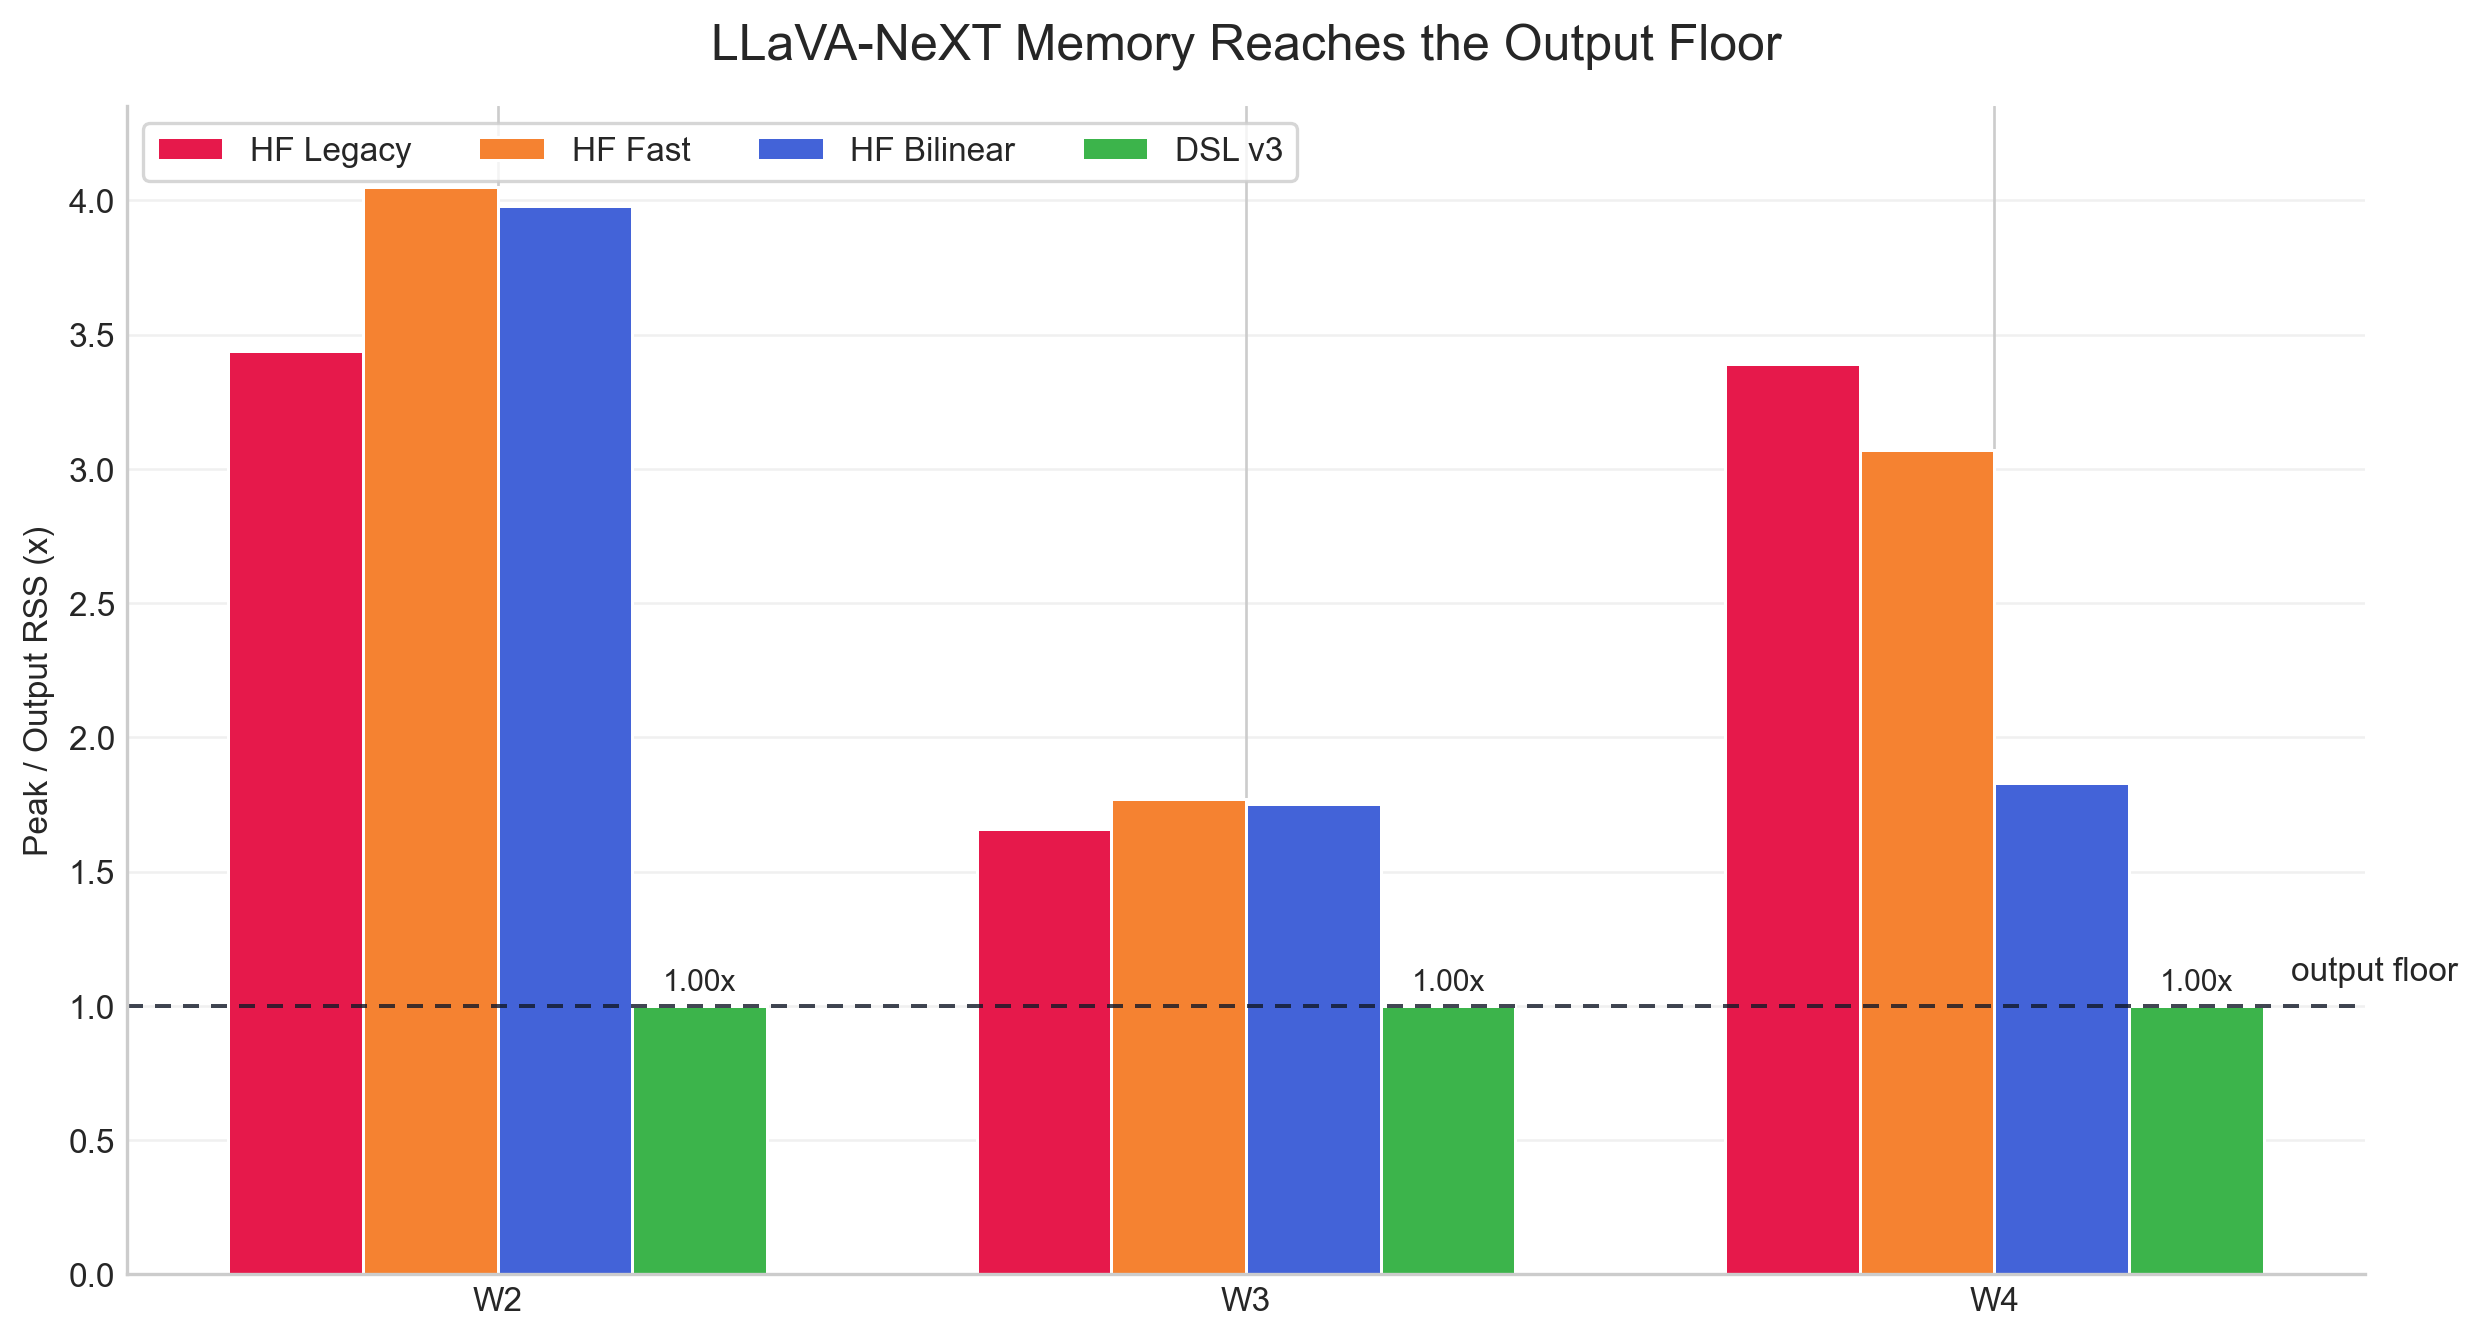
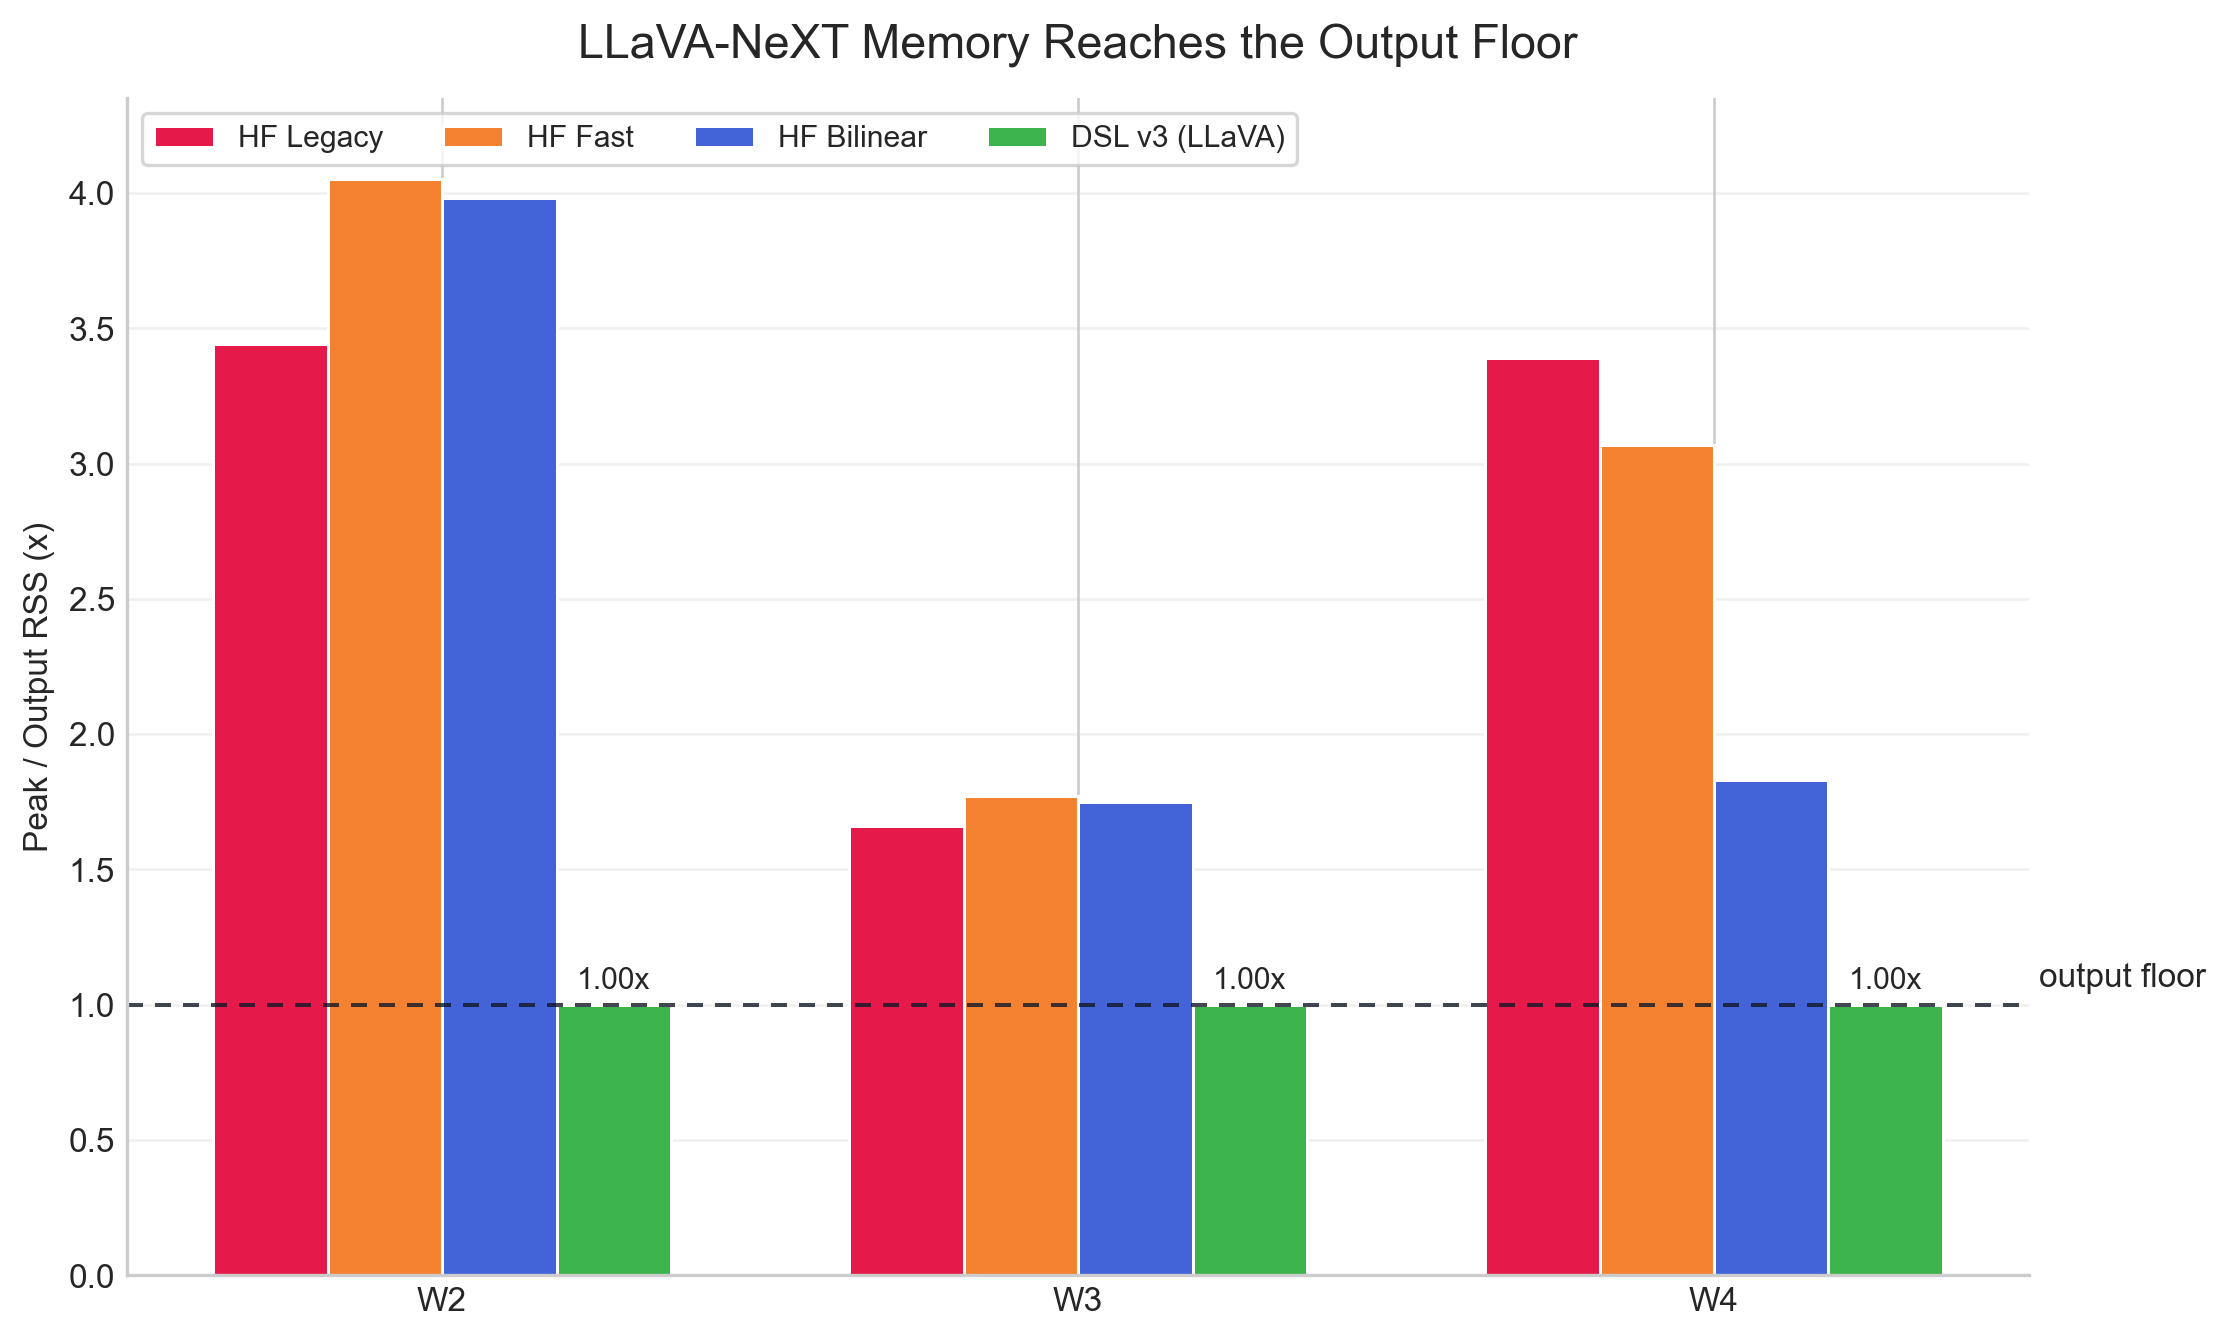
Refactor code structure for improved readability and maintainability

diff --git a/visualizations/final_slide_figures.py b/visualizations/final_slide_figures.py
@@ -63,10 +63,18 @@ def _save(fig, filename):
     return path
 
 
-def plot_slide_5_qwen_memory_floor():
+def _plot_memory_floor_panel(
+    ax,
+    family,
+    thread,
+    title,
+    dsl_legend_label,
+    legend_columns,
+    show_ylabel=True,
+):
     data = get_final_selected_grouped_data(
-        "qwen",
-        "multi",
+        family,
+        thread,
         "memory",
         ("hf_legacy", "hf_fast", "hf_bilinear", "dsl_v3"),
     )
@@ -75,14 +83,14 @@ def plot_slide_5_qwen_memory_floor():
     x = np.arange(len(workloads))
     width = 0.18
 
-    fig, ax = plt.subplots(figsize=(10.4, 5.7))
     for idx, (label, values) in enumerate(series.items()):
         offset = (idx - (len(series) - 1) / 2) * width
+        legend_label = dsl_legend_label if label == "DSL v3" else label
         bars = ax.bar(
             x + offset,
             values,
             width,
-            label=label,
+            label=legend_label,
             color=COLORS[label],
             edgecolor="white",
             linewidth=0.9,
@@ -91,56 +99,76 @@ def plot_slide_5_qwen_memory_floor():
             _annotate_bars(ax, bars, "{:.2f}x", fontsize=9)
 
     ax.axhline(1.0, color="#111827", linestyle=(0, (4, 3)), linewidth=1.2, alpha=0.8)
-    ax.text(len(workloads) - 0.38, 1.07, "output floor", ha="right", va="bottom", fontsize=10)
-    ax.set_title("Qwen Storage Fusion Drives Peak Memory to the Output Floor", fontsize=15, pad=14)
-    ax.set_ylabel("Peak / Output RSS (x)")
+    ax.text(
+        1.005,
+        1.04,
+        "output floor",
+        transform=ax.get_yaxis_transform(),
+        ha="left",
+        va="bottom",
+        fontsize=10,
+        clip_on=False,
+    )
+    ax.set_title(title, fontsize=14, pad=12)
+    if show_ylabel:
+        ax.set_ylabel("Peak / Output RSS (x)")
     ax.set_xticks(x)
     ax.set_xticklabels(workloads)
-    ax.set_ylim(0, 4.25)
-    ax.legend(frameon=True, ncol=4, loc="upper left")
+    ax.set_ylim(0, 4.35)
+    ax.legend(frameon=True, ncol=legend_columns, loc="upper left", fontsize=9)
     _style_axes(ax)
+
+
+def plot_slide_5_qwen_memory_floor():
+    fig, ax = plt.subplots(figsize=(9.4, 5.7))
+    _plot_memory_floor_panel(
+        ax,
+        "qwen",
+        "single",
+        "Qwen Storage Fusion Drives Peak Memory to the Output Floor",
+        "DSL v3 (Qwen)",
+        4,
+    )
     fig.tight_layout()
     return _save(fig, "slide_5_qwen_memory_floor.png")
 
 
 def plot_slide_5_llava_singlethread_memory_floor():
-    data = get_final_selected_grouped_data(
+    fig, ax = plt.subplots(figsize=(9.4, 5.7))
+    _plot_memory_floor_panel(
+        ax,
         "llava",
         "single",
-        "memory",
-        ("hf_legacy", "hf_fast", "hf_bilinear", "dsl_v3"),
+        "LLaVA-NeXT Memory Reaches the Output Floor",
+        "DSL v3 (LLaVA)",
+        4,
     )
-    workloads = list(data["workloads"])
-    series = data["series"]
-    x = np.arange(len(workloads))
-    width = 0.18
-
-    fig, ax = plt.subplots(figsize=(10.4, 5.7))
-    for idx, (label, values) in enumerate(series.items()):
-        offset = (idx - (len(series) - 1) / 2) * width
-        bars = ax.bar(
-            x + offset,
-            values,
-            width,
-            label=label,
-            color=COLORS[label],
-            edgecolor="white",
-            linewidth=0.9,
-        )
-        if label == "DSL v3":
-            _annotate_bars(ax, bars, "{:.2f}x", fontsize=9)
-
-    ax.axhline(1.0, color="#111827", linestyle=(0, (4, 3)), linewidth=1.2, alpha=0.8)
-    ax.text(len(workloads) - 0.38, 1.07, "output floor", ha="right", va="bottom", fontsize=10)
-    ax.set_title("LLaVA-NeXT Memory Reaches the Output Floor", fontsize=15, pad=14)
-    ax.set_ylabel("Peak / Output RSS (x)")
-    ax.set_xticks(x)
-    ax.set_xticklabels(workloads)
-    ax.set_ylim(0, 4.35)
-    ax.legend(frameon=True, ncol=4, loc="upper left")
-    _style_axes(ax)
     fig.tight_layout()
     return _save(fig, "slide_5_llava_singlethread_memory_floor.png")
+
+
+def plot_slide_5_combined_memory_floor():
+    fig, axes = plt.subplots(1, 2, figsize=(15.4, 5.8), sharey=True)
+    _plot_memory_floor_panel(
+        axes[0],
+        "qwen",
+        "single",
+        "Qwen",
+        "DSL v3 (Qwen)",
+        2,
+    )
+    _plot_memory_floor_panel(
+        axes[1],
+        "llava",
+        "single",
+        "LLaVA-NeXT",
+        "DSL v3 (LLaVA)",
+        2,
+        show_ylabel=False,
+    )
+    fig.suptitle("Peak Memory Reaches the Output Floor", fontsize=16, y=1.02)
+    fig.tight_layout()
+    return _save(fig, "slide_5_qwen_llava_memory_floor.png")
 
 
 def plot_slide_6_qwen_w4_thread_scaling():
@@ -383,6 +411,7 @@ def main():
     paths = [
         plot_slide_5_qwen_memory_floor(),
         plot_slide_5_llava_singlethread_memory_floor(),
+        plot_slide_5_combined_memory_floor(),
         plot_slide_6_qwen_w4_thread_scaling(),
         plot_slide_7_qwen_schedule_axes(),
         plot_slide_8_llava_schedule_flat_runtime(),

diff --git a/README.md b/README.md
@@ -129,9 +129,11 @@ Contains Python scripts for creating visualizations from the output data.
 
 - `final_runtime_memory_pareto.png`: Shows runtime versus peak/output RSS memory Pareto frontiers for Qwen and LLaVA-NeXT across thread settings and workloads.
 
-- `slide_5_qwen_memory_floor.png`: Shows Qwen 8-thread peak/output RSS memory for HF baselines and DSL v3 with the output-floor reference line.
+- `slide_5_qwen_memory_floor.png`: Shows Qwen single-thread peak/output RSS memory for HF baselines and DSL v3 with the output-floor reference line.
 
 - `slide_5_llava_singlethread_memory_floor.png`: Shows LLaVA-NeXT single-thread peak/output RSS memory for HF baselines and DSL v3 with the output-floor reference line.
+
+- `slide_5_qwen_llava_memory_floor.png`: Shows Qwen and LLaVA-NeXT single-thread peak/output RSS memory floor charts side by side for the final slide deck.
 
 - `slide_6_qwen_w4_thread_scaling.png`: Shows Qwen W4 runtime scaling for HF bilinear and DSL v3 across 1, 4, and 8 threads.
 

diff --git a/visualizations/final_slide_figures.md b/visualizations/final_slide_figures.md
@@ -2,11 +2,15 @@
 
 These figures are generated by `visualizations/final_slide_figures.py` from the tables in `FINAL_RESULTS.md`.
 
-## Slide 5: Qwen Memory Floor
+## Slide 5: Memory Floors
+
+![Qwen and LLaVA peak memory floors](figures/slide_5_qwen_llava_memory_floor.png)
+
+## Slide 5 Individual: Qwen Memory Floor
 
 ![Qwen peak memory floor](figures/slide_5_qwen_memory_floor.png)
 
-## Slide 5 Alternate: LLaVA Memory Floor
+## Slide 5 Individual: LLaVA Memory Floor
 
 ![LLaVA peak memory floor](figures/slide_5_llava_singlethread_memory_floor.png)
 
